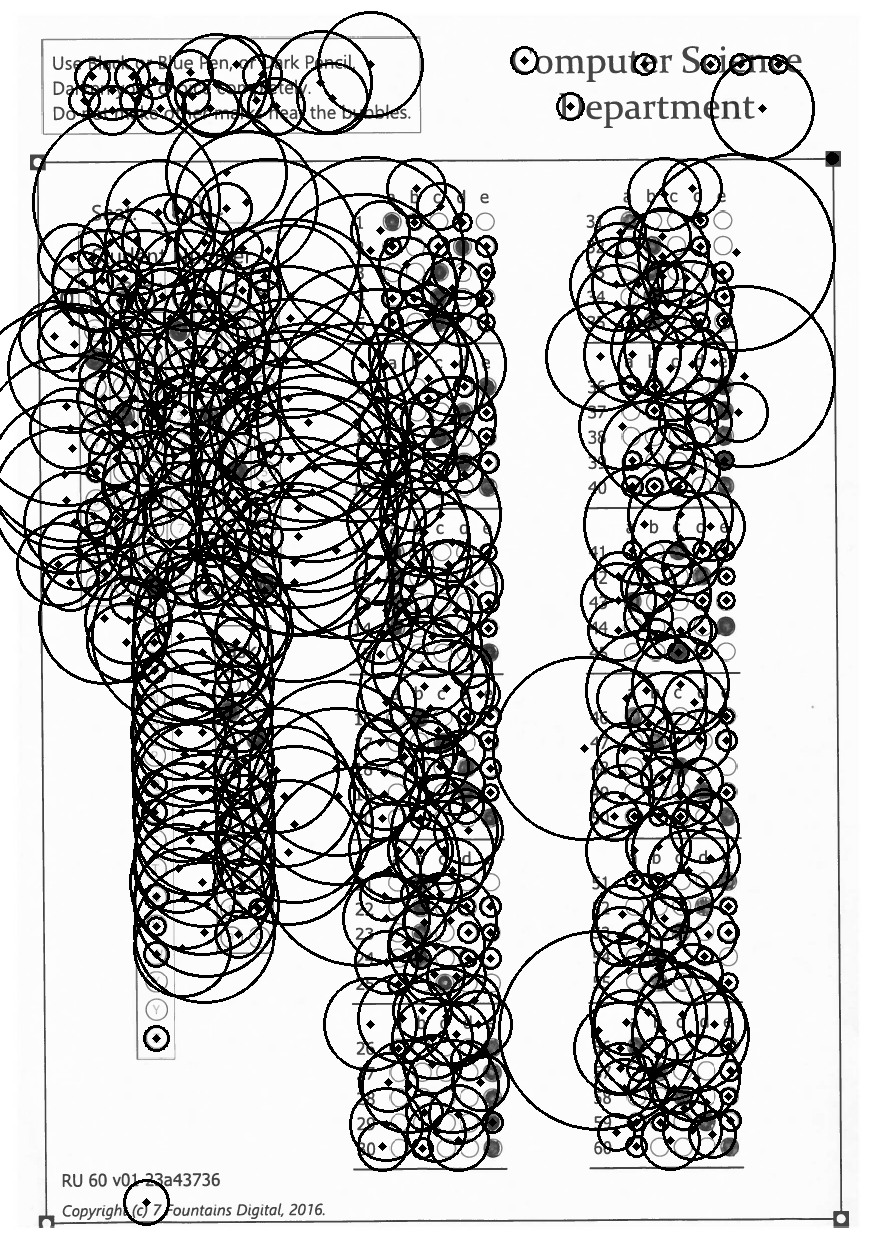
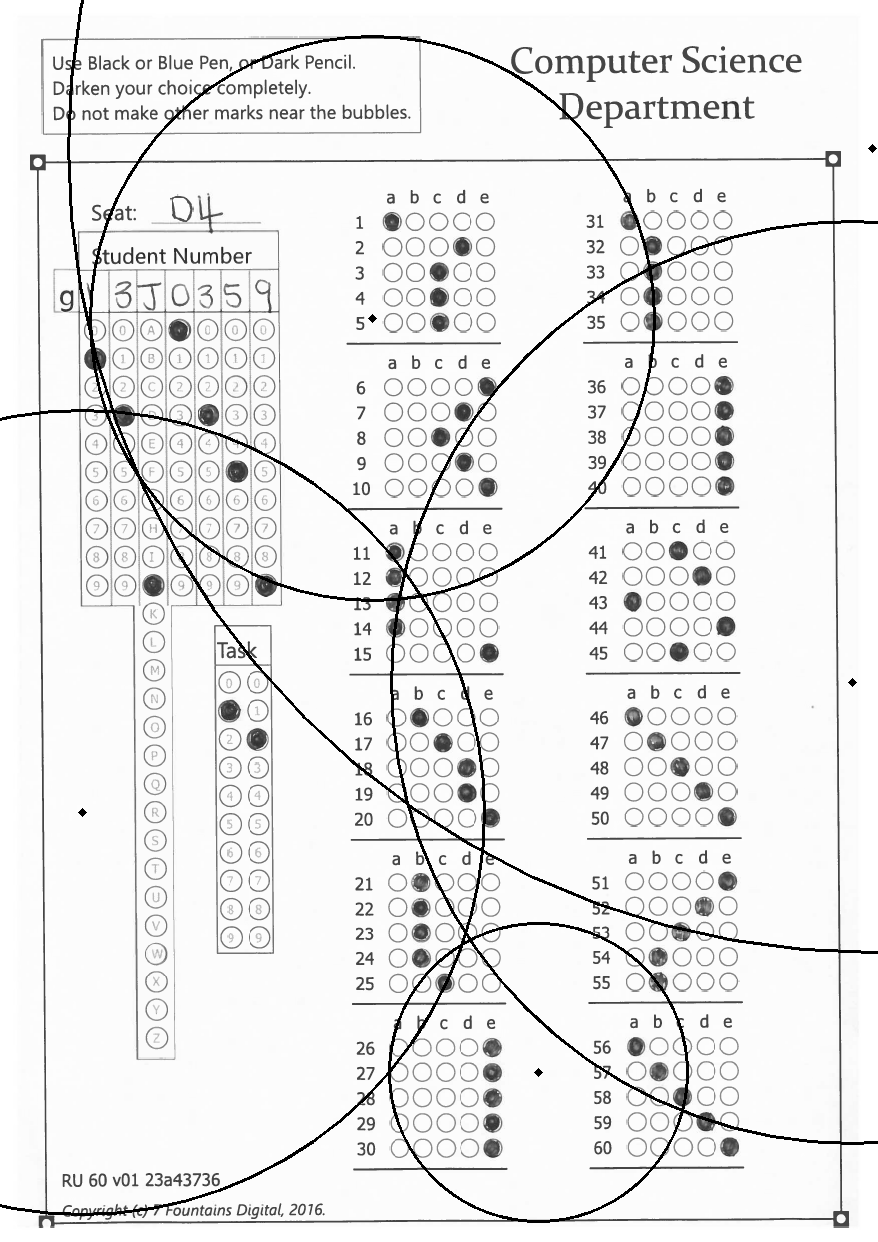
circle extraction and checks

diff --git a/mcq.py b/mcq.py
@@ -28,14 +28,19 @@ def main():
     except IndexError:
         fn = 'extra/clean.png'
     
-    paper, warped = transform(fn)
-
+    orig = 'extra/clean.png'
+    paper, warped = transform(orig)
+    _, target = transform(fn)
     outimg, quiz = findcircles(warped.copy())
+    outimg, answers = extract(quiz, target)
+    if outimg.any() == None:
+        print("outimg is none")
+        sys.exit()
     cv.imshow("source1", outimg)
     #cv.imshow("source2", cimg)
     k = cv.waitKey(0)
     if k == ord('s'):
-        cv.imwrite("research.png", circular)
+        cv.imwrite("research.png", outimg)
     print('Done')
 
 
@@ -44,14 +49,66 @@ def main():
 # THIS MEANS YOU CAN OVERLAY TO CHECK QUESTIONS AND POSITIONS
 # THIS ALSO MEANS ORIENTATION
 # IT MEANS THAT LOST CIRCLES CAN BE RECOVERED FROM THE PROTOTYPE
-def mark(quiz, warped):
-    return None
+
+# find answers
+def marking(answers):
+    options = ['a', 'b', 'c', 'd', 'e']
+    mark = []
+    for qi, q in enumerate(answers):
+        letters = []
+        for ci, circle in enumerate(q):
+            if circle:
+                letters.append(options[ci])
+        mark.append(letters)
+
+    return mark
+
+def extract(quiz, warped):
+    blank = np.zeros(warped.shape, dtype="uint8")
+    answers = []
+    ccc = 0
+    for q in quiz:
+        for i in q:
+            # draw the outer circle
+            y = i[0]
+            x = i[1]
+            r = i[2] + 1
+            roi = warped[x-r:x+r, y-r:y+r]
+            result = warped[x-r:x+r, y-r:y+r]
+            ret, mask = cv.threshold(result, 10, 255, cv.THRESH_BINARY)
+            mask_inv = cv.bitwise_not(mask)
+            img1_bg = cv.bitwise_and(roi,roi,mask = mask_inv)
+            img2_fg = cv.bitwise_and(result, result,mask = mask)
+            img2_fg = cv.bitwise_not(img2_fg)
+            ret, img2_fg = cv.threshold(img2_fg, 100, 255, cv.THRESH_BINARY)
+            result = img2_fg
+            dst = cv.add(img1_bg,img2_fg)
+            blank[x-r:x+r, y-r:y+r] = dst
+            #result = cv.bitwise_not(result)
+            #thresh = cv.threshold(result, 0, 255,
+            #        cv.THRESH_BINARY_INV | cv.THRESH_OTSU)[1]
+            #mask = np.zeros(thresh.shape, dtype="uint8")
+            #mask = cv.bitwise_and(, result, mask=mask)
+            total = cv.countNonZero(result)
+            answers.append(total > 100)
+            print(ccc, total)
+            if ccc == 10000:
+                return blank
+            ccc += 1
+            #result = img[a1-r:a1+r,b1-r:b1+r]
+            #cv.circle(cimg,(i[0],i[1]),i[2],(0,255,0),2)
+            # draw the center of the circle
+            #cv.circle(cimg,(i[0],i[1]),2,(0,0,255),3)
     # two ways 
     # one 
     # find all marked circles and check their positions
     # two
     # cut each circle out and check if marked
+    answers = nest(answers, 5)
+    return blank, answers
 
+def nest(simple, n):
+    return [first[i:i + n] for i in range(0, len(first), n)]
 
 def findcircles(cimg):
     #thresh = cv.threshold(cimg, 0, 255,

diff --git a/bitwise.py b/bitwise.py
@@ -1,0 +1,20 @@
+# Load two images
+img1 = cv2.imread('messi5.jpg')
+img2 = cv2.imread('opencv-logo.png')
+# I want to put logo on top-left corner, So I create a ROI
+rows,cols,channels = img2.shape
+roi = img1[0:rows, 0:cols ]
+# Now create a mask of logo and create its inverse mask also
+img2gray = cv2.cvtColor(img2,cv2.COLOR_BGR2GRAY)
+ret, mask = cv2.threshold(img2gray, 10, 255, cv2.THRESH_BINARY)
+mask_inv = cv2.bitwise_not(mask)
+# Now black-out the area of logo in ROI
+img1_bg = cv2.bitwise_and(roi,roi,mask = mask_inv)
+# Take only region of logo from logo image.
+img2_fg = cv2.bitwise_and(img2,img2,mask = mask)
+# Put logo in ROI and modify the main image
+dst = cv2.add(img1_bg,img2_fg)
+img1[0:rows, 0:cols ] = dst
+cv2.imshow('res',img1)
+cv2.waitKey(0)
+cv2.destroyAllWindows()
